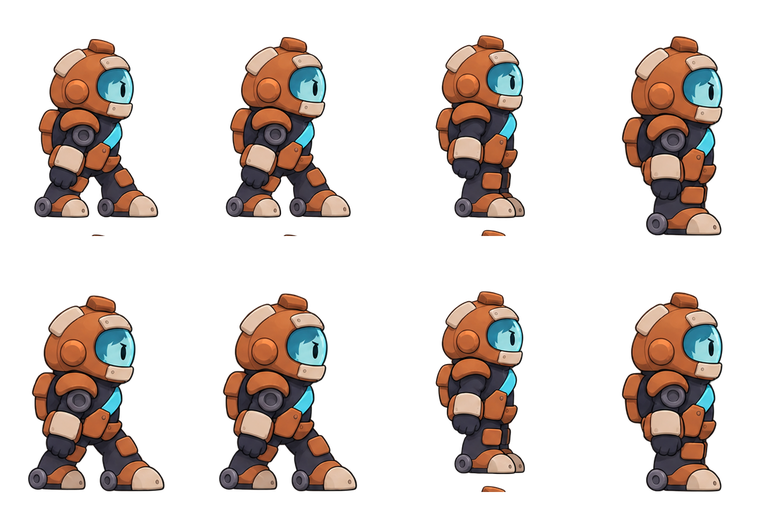
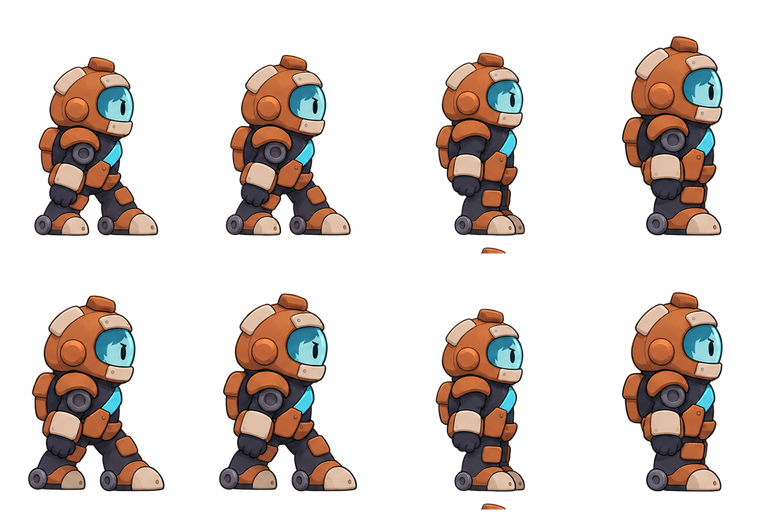
[dev] Autômato: DF91 e DF96 tratados por script (fragmentos soltos e pés de quatro quadros do andar)
Os originais em colaboracao/entregas/ não mudam. tools/tratar_arte_revisao.py recebe a folha já
carregada e o tools/import_deserto_v2_folhas.py grava a cópia tratada em assets/deserto/:
- DF91 e DF96: apaga componentes opacos com menos de 0,4 % do maior da célula (as lascas laranja
  que apareciam abaixo dos pés), com 2 px de borda suave e sem encostar em outro componente;
- DF91: os quadros 1, 2, 3 e 7 vieram desenhados 35–36 px acima da linha dos pés (y 470 nos
  outros). No jogo o Autômato subia 7,7 px a cada passo. O desenho desce até os pés tocarem y 470
  e os ombros desses quadros em Player.SHOULDER_AUT_PX descem junto (o braço continua no ombro).

Captura antes/depois dos 8 quadros: docs/revisao_geral/capturas/automato_andar_antes_depois.jpg
(tools/captura_automato_andar.gd). test_deserto passa.

Claude-Session: https://claude.ai/code/session_01C1t46cwiahnXpFkCWEd99W

diff --git a/tools/tratar_arte_revisao.py b/tools/tratar_arte_revisao.py
@@ -1,0 +1,114 @@
+"""Tratamentos de arte sem desenho novo (revisão geral, 26/11/2026). Os originais em colaboracao/entregas/
+nunca são alterados: estas funções recebem a imagem já carregada e devolvem uma cópia tratada, que o
+tools/import_deserto_v2_folhas.py grava em assets/deserto/ (meia resolução).
+
+- DF91 (Autômato andando) e DF96 (derrota): apaga os fragmentos soltos, componentes opacos com menos
+  de 0,4 % do maior componente da célula (as lascas laranja que apareciam abaixo dos pés).
+- DF91: desce os quadros 1, 2, 3 e 7, desenhados 35–36 px acima da linha dos pés.
+
+Não tratável sem desenho (vai para colaboracao/pedidos/REV_pedidos_de_arte.md): a lente do Drone vem
+cortada reta na linha 342 da célula em todos os quadros da DF66 e no quadro 3 da DF68 (que é cópia do
+quadro 1 da DF66); não existe outro quadro com a lente inteira e sem efeito para recompor.
+
+uso direto (relatório, sem gravar nada): python tools/tratar_arte_revisao.py
+"""
+from pathlib import Path
+
+import numpy as np
+from PIL import Image
+from scipy import ndimage
+
+ROOT = Path(__file__).resolve().parents[1]
+SRC = ROOT / "colaboracao/entregas"
+CELL = (384, 512)
+
+
+def _cells(arr, n, cols=4):
+    w, h = CELL
+    for k in range(n):
+        r, c = divmod(k, cols)
+        yield k, (slice(r * h, (r + 1) * h), slice(c * w, (c + 1) * w))
+
+
+def limpar_soltos(img: Image.Image, n: int, limiar=0.004) -> tuple[Image.Image, list]:
+    """Apaga componentes opacos (alfa > 40) pequenos (≥ 4 px e < limiar do maior), com a borda suave
+    deles (2 px em volta), sem encostar em nenhum outro componente."""
+    arr = np.array(img.convert("RGBA"))
+    log = []
+    for k, sl in _cells(arr, n):
+        cell = arr[sl].copy()
+        a = cell[:, :, 3]
+        lab, nn = ndimage.label(a > 40)
+        if nn <= 1:
+            continue
+        sizes = ndimage.sum(np.ones_like(lab), lab, range(1, nn + 1))
+        big = sizes.max()
+        small = [i + 1 for i, s in enumerate(sizes) if 4 <= s < big * limiar]
+        if not small:
+            continue
+        keep = np.isin(lab, [i + 1 for i, s in enumerate(sizes) if s >= big * limiar])
+        protect = ndimage.binary_dilation(keep, iterations=2)
+        for i in small:
+            m = ndimage.binary_dilation(lab == i, iterations=2) & ~protect
+            cy, cx = ndimage.center_of_mass(lab == i)
+            cell[m] = 0
+            log.append("q%d: fragmento de %d px em (%d, %d)" % (k + 1, int(sizes[i - 1]), cx, cy))
+        arr[sl] = cell
+    return Image.fromarray(arr), log
+
+
+# DF91 v2: os quadros 1, 2, 3 e 7 vieram desenhados 35–36 px acima da linha dos pés (y 470 nos outros
+# quadros, âncora em 472): no jogo o Autômato flutuava 7,7 px a cada passo. Desce o desenho inteiro do
+# quadro até os pés tocarem y 470. Os ombros desses quadros em Player.SHOULDER_AUT_PX descem junto.
+DF91_DESCE = {1: 36, 2: 36, 3: 35, 7: 35}
+
+
+def descer_quadros(img: Image.Image, desce: dict) -> tuple[Image.Image, list]:
+    arr = np.array(img.convert("RGBA"))
+    log = []
+    for k, sl in _cells(arr, 8):
+        d = desce.get(k + 1, 0)
+        if d == 0:
+            continue
+        cell = arr[sl].copy()
+        resto = int((cell[-d:, :, 3] > 40).sum())
+        if resto > 400:
+            log.append("q%d: não desce, há %d px nas últimas %d linhas" % (k + 1, resto, d))
+            continue
+        if resto:
+            # só lascas soltas abaixo dos pés (o desenho termina 36 px acima): saem antes de descer
+            cell[-d:] = 0
+            log.append("q%d: apaga %d px de lascas abaixo dos pés" % (k + 1, resto))
+        moved = np.zeros_like(cell)
+        moved[d:] = cell[:-d]
+        arr[sl] = moved
+        log.append("q%d: desce %d px (pés em y 470)" % (k + 1, d))
+    return Image.fromarray(arr), log
+
+
+def df91(img):
+    a, l1 = limpar_soltos(img, 8)
+    b, l2 = descer_quadros(a, DF91_DESCE)
+    return b, l1 + l2
+
+
+TRATAMENTOS = {
+    "DF91": df91,
+    "DF96": lambda im: limpar_soltos(im, 6),
+}
+
+
+def tratar(code: str, img: Image.Image) -> Image.Image:
+    fn = TRATAMENTOS.get(code)
+    if fn is None:
+        return img
+    out, log = fn(img)
+    for linha in log:
+        print("  tratado %s · %s" % (code, linha))
+    return out
+
+
+if __name__ == "__main__":
+    for code, nome in [("DF91", "DF91_automato_andar_v2.png"), ("DF96", "DF96_automato_derrota_v2.png"),
+]:
+        tratar(code, Image.open(SRC / code / nome))

diff --git a/tools/import_deserto_v2_folhas.py b/tools/import_deserto_v2_folhas.py
@@ -20,6 +20,10 @@ from pathlib import Path
 
 from PIL import Image
 
+import sys
+sys.path.insert(0, str(Path(__file__).resolve().parent))
+from tratar_arte_revisao import tratar
+
 ROOT = Path(__file__).resolve().parents[1]
 SRC = ROOT / "colaboracao/entregas"
 OUT = ROOT / "assets/deserto"
@@ -81,15 +85,15 @@ def confere(pasta: str, nome: str) -> Path:
     return p
 
 
-def meia(p: Path, destino: Path) -> None:
-    img = Image.open(p).convert("RGBA")
+def meia(p: Path, destino: Path, code: str = "") -> None:
+    img = tratar(code, Image.open(p).convert("RGBA"))     # tratamentos sem desenho (tools/tratar_arte_revisao.py)
     img = img.resize((img.width // 2, img.height // 2), Image.Resampling.LANCZOS)
     img.save(destino, lossless=True, method=5)
     print(destino.relative_to(ROOT), img.size)
 
 
 for code, nome in FOLHAS.items():
-    meia(confere(code, nome), OUT / f"{code}.webp")
+    meia(confere(code, nome), OUT / f"{code}.webp", code)
 for dest, (pasta, nome) in OBJETOS.items():
     meia(confere(pasta, nome), OUT / f"{dest}.webp")
 V2.mkdir(exist_ok=True)
